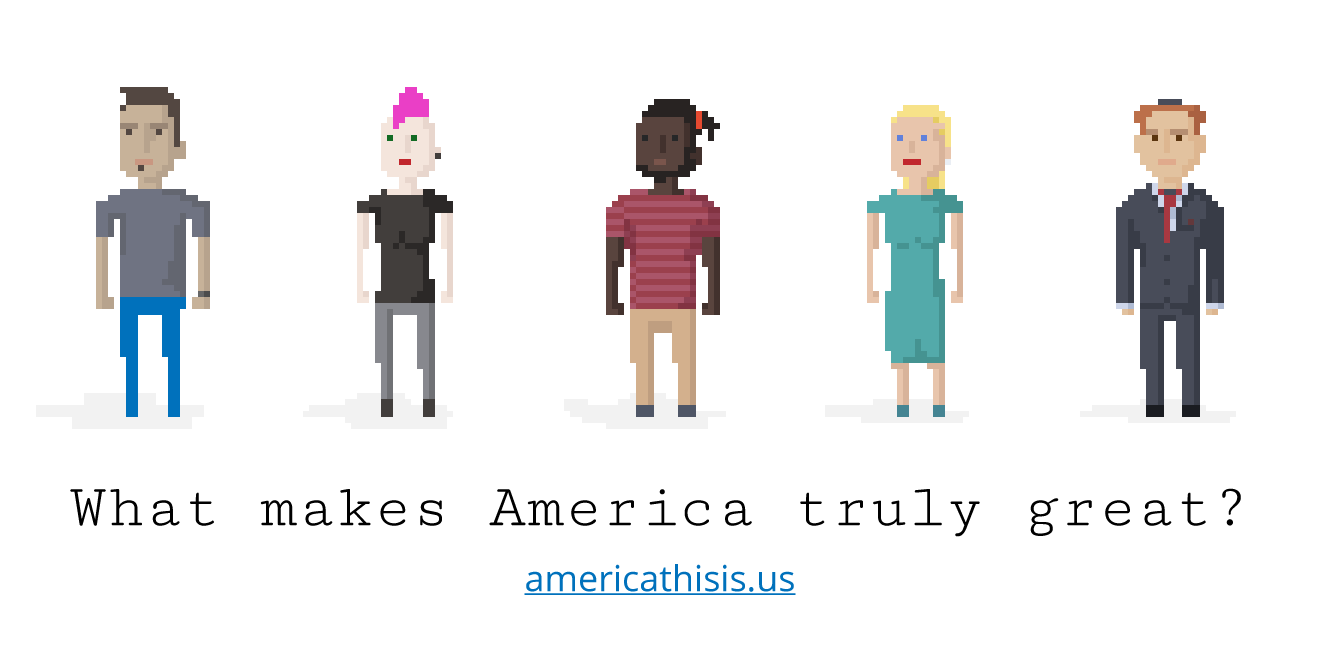
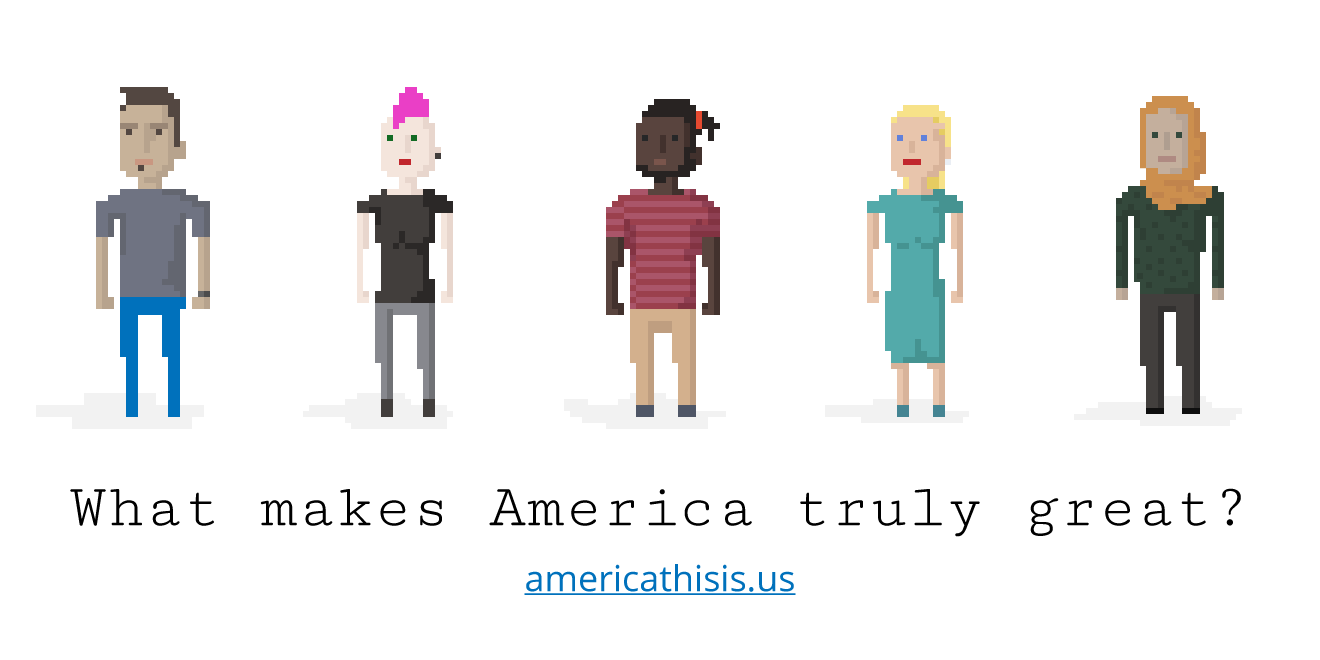
new people

Changed region(s): [[0.8386, 0.1212, 0.9318, 0.6364]]

diff --git a/source/javascripts/_vendor/basic.js b/source/javascripts/_vendor/basic.js
@@ -113,6 +113,16 @@ $(document).ready(function() {
                 $("#person5").removeClass("people-move");
                 $("#person6").addClass("people-move");
             }, 20000);
+        setTimeout(
+            function() {
+                $("#person6").removeClass("people-move");
+                $("#person7").addClass("people-move");
+            }, 24000);
+        setTimeout(
+            function() {
+                $("#person7").removeClass("people-move");
+                $("#person8").addClass("people-move");
+            }, 28000);
 
 
 
@@ -120,7 +130,7 @@ $(document).ready(function() {
     }
 
     peoples();
-    var peoples = setInterval(peoples, 20000);
+    var peoples = setInterval(peoples, 28000);
 
 
 
